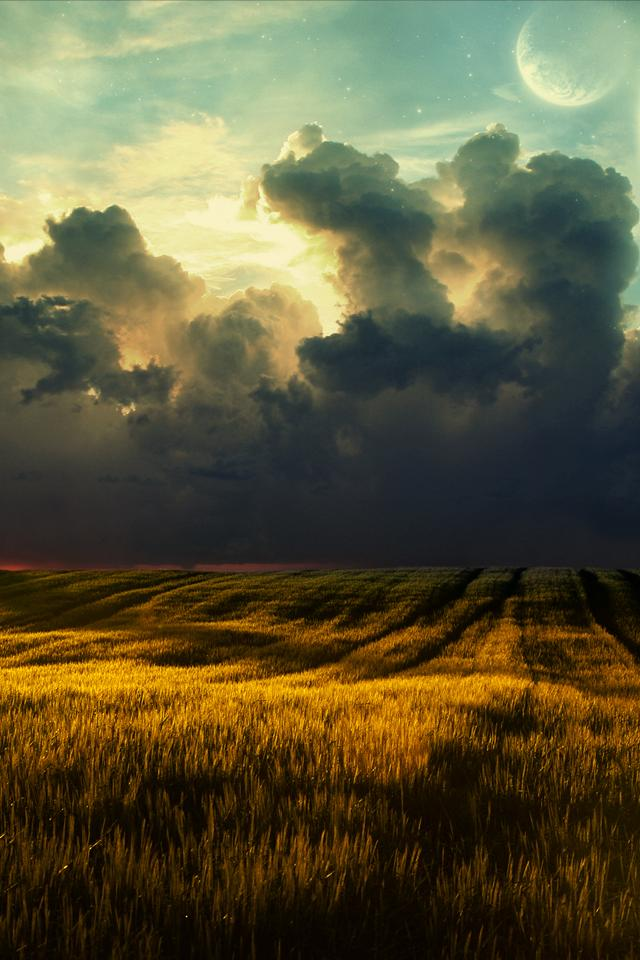
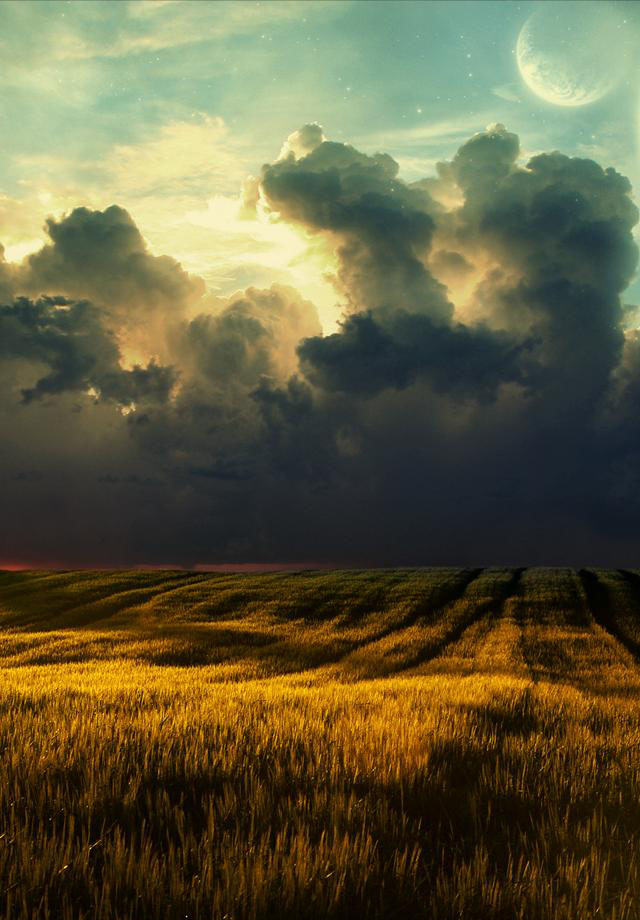
Example projectu update to support iPhone 5

diff --git a/RECurtainViewControllerExample/CurtainViewController.m b/RECurtainViewControllerExample/CurtainViewController.m
@@ -9,6 +9,8 @@
 #import "CurtainViewController.h"
 #import "DemoViewController.h"
 
+#define IS_IPHONE_5 ( fabs( ( double )[ [ UIScreen mainScreen ] bounds ].size.height - ( double )568 ) < DBL_EPSILON )
+
 @interface CurtainViewController ()
 
 @end
@@ -32,7 +34,7 @@
 {
     self = [super initWithNibName:nibNameOrNil bundle:nibBundleOrNil];
     if (self) {
-        self.view.backgroundColor = UI_USER_INTERFACE_IDIOM() == UIUserInterfaceIdiomPhone ? [UIColor colorWithPatternImage:[UIImage imageNamed:@"wallpaper.jpg"]] : [UIColor grayColor];
+        self.view.backgroundColor = UI_USER_INTERFACE_IDIOM() == UIUserInterfaceIdiomPhone ? [UIColor colorWithPatternImage:[UIImage imageNamed: IS_IPHONE_5 ? @"wallpaper-568h.jpg" : @"wallpaper.jpg"]] : [UIColor grayColor];
         
         UIButton *button = [UIButton buttonWithType:UIButtonTypeRoundedRect];
         button.frame = CGRectMake((self.view.frame.size.width - 200) / 2, self.view.frame.size.height / 2 - 30, 200, 44);
